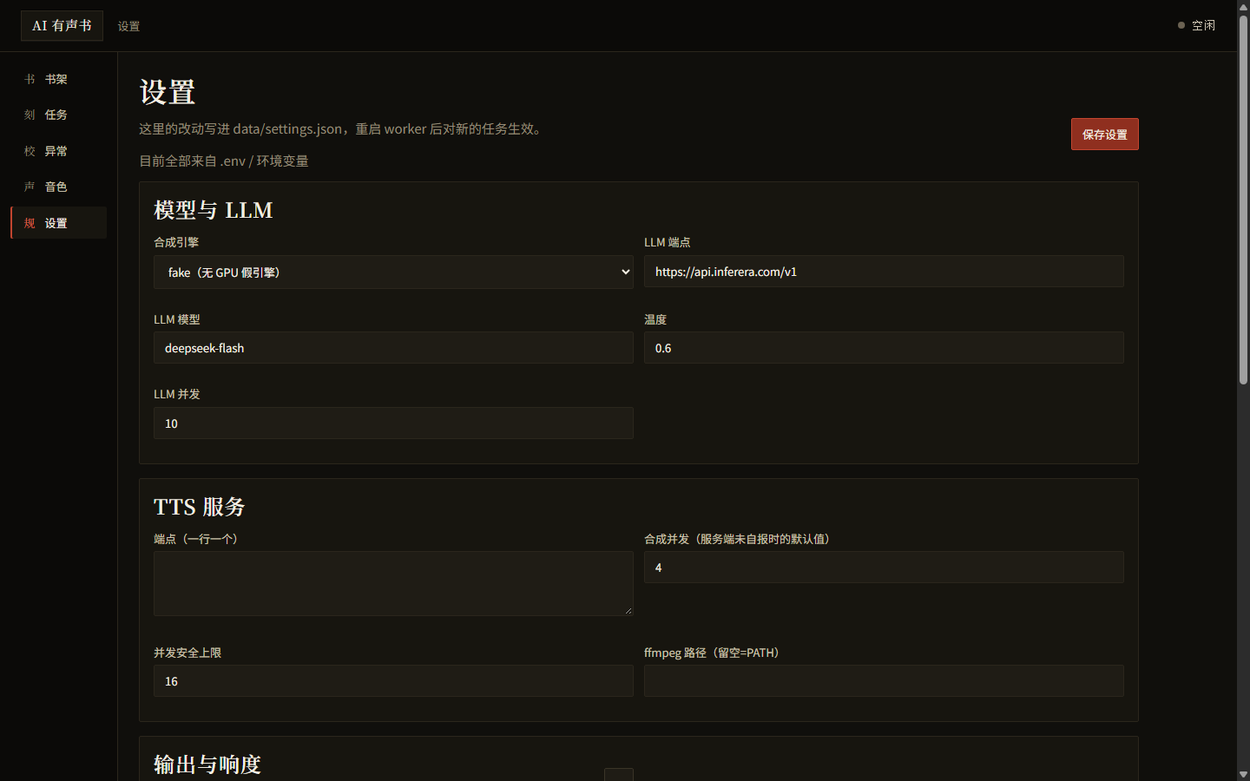
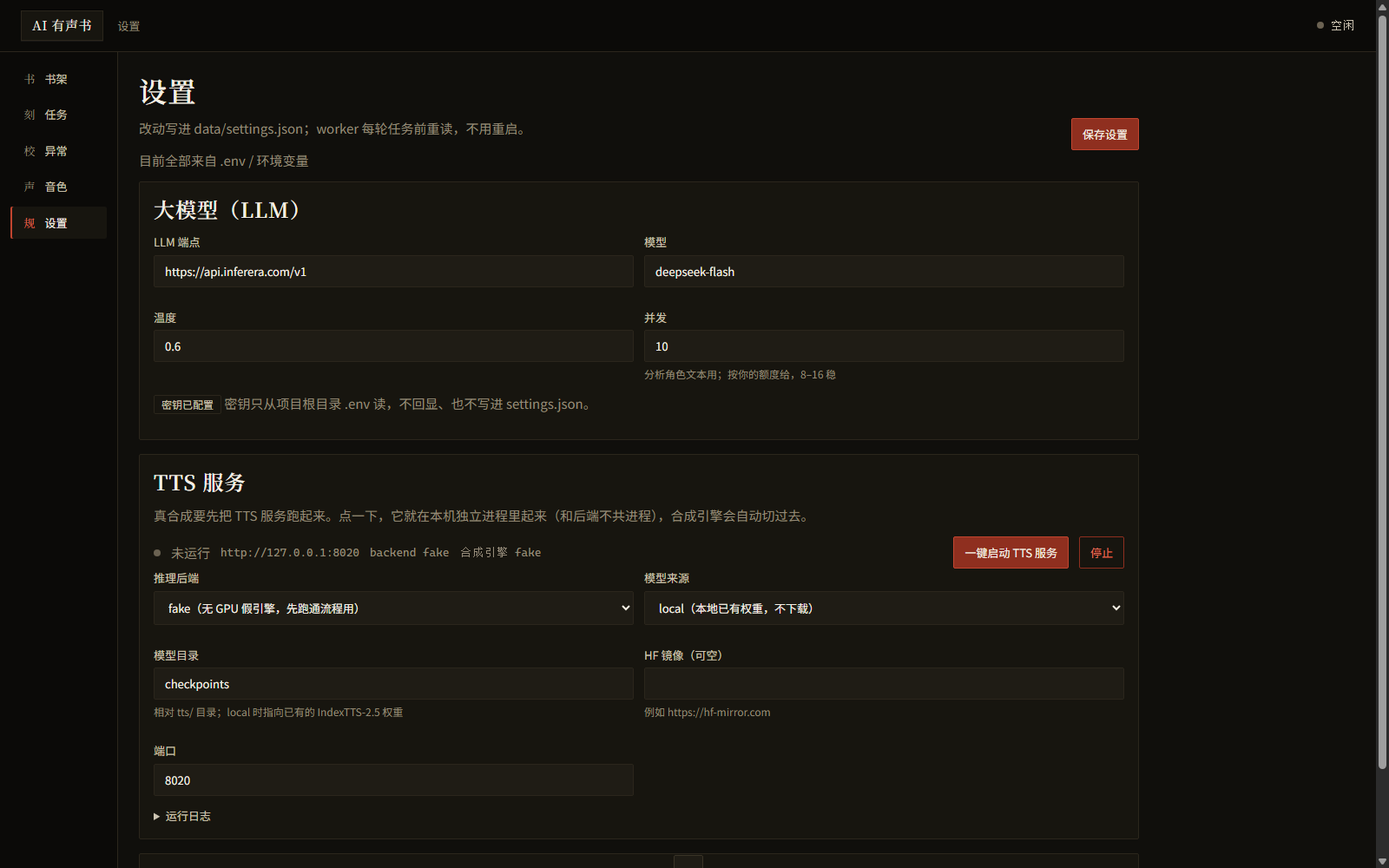
docs: 工作台/一键启动/自带 ffmpeg 的说明与验收记录，重拍界面截图
- ui.md 重写：三栏工作台、悬浮音色窗、一键启动 TTS、快捷键、接口清单、实测记录与已知限制。
- tts-deploy.md 增加「一键启动」（界面按钮 / aiab tts 命令）与免重启说明。
- export.md 说明 ffmpeg 项目自带、ffprobe 可选。
- 新增 M7 计划与验收记录；删掉旧书页/章页截图，换上 workbench-desktop/mobile、voice-picker、
  settings-desktop、settings-tts-running。

diff --git a/docs/ui.md b/docs/ui.md
@@ -1,32 +1,61 @@
-# 浏览器界面（M4）
+# 浏览器界面
 
-本地单用户界面：`uv run aiab serve` 之后打开 `http://127.0.0.1:8300`。手机连同一个地址即可（`--host 0.0.0.0` 时可用局域网 IP）。
+本地单用户界面：`uv run aiab serve` 之后打开 `http://127.0.0.1:8300`。
+手机连同一个地址即可（`--host 0.0.0.0` 时用局域网 IP）。
+
+**书页就是一个工作台**：左边章节、中间正文（原文 / 角色文本一键切换）、右边本章角色与音色。
+进去之后不用再跳到别的页面，看分析、换音色、发起生成都在这一屏里完成。
 
 ## 1. 页面结构
 
-主线三层 **书架 → 书 → 章（场景 + 句子）**，加四个辅助页：
-
 | 路由 | 页面 | 做什么 |
 |---|---|---|
-| `#/shelf` | 书架 | 导入 txt、看每本书的进度（已分析/已生成/时长/异常）、一键分析或生成 |
-| `#/book/{id}` | 书 | 章节表（字数/场景/句子/时长/状态）、导出成品、异常入口 |
-| `#/book/{id}/chapter/{n}` | 章 · 校对台 | 场景栏与场景概览、逐句试听/编辑/单句重生成 |
+| `#/shelf` | 书架 | 导入 txt、看每本书进度（已分析/已生成/时长/异常）、一键分析或生成 |
+| `#/book/{id}` | 书 · 工作台 | 三栏工作台：章节目录 + 正文/角色文本 + 角色音色 |
+| `#/book/{id}/chapter/{n}` | 书 · 工作台（定位到第 n 章） | 同一个工作台，只是把选中的章节换成 n |
 | `#/jobs` | 任务中心 | 运行中（进度条）/排队/失败，可取消与重试 |
 | `#/book/{id}/issues` | 异常清单 | 降级与失败记录，按类型筛选、批量重试 |
-| `#/voices` | 音色库 | 音色试听 + 角色→音色矩阵 |
-| `#/settings` | 设置 | 模型 / TTS / 响度 / 停顿，写进 `data/settings.json` |
+| `#/voices` | 音色库 | 96 个内置音色试听 + 角色→音色矩阵 |
+| `#/settings` | 设置 | LLM + **一键启动 TTS 服务**；其余参数用固定默认值 |
 
-默认路径只有三个动作：**导入 → 一键分析 → 一键生成**，中途没有强制确认；所有人工操作都是事后修正。
+默认路径只有三个动作：**导入 → 分析角色文本 → 生成有声书**，中途没有强制确认；所有人工操作都是事后修正。
 
-## 2. 快捷键（校对台）
+### 工作台三栏
+
+| 区域 | 内容 |
+|---|---|
+| 顶栏 | 书名 + 四个动作：分析角色文本 / 生成有声书 / 导出成品 / 重渲染本章 / 异常；右侧是跟这本书相关的任务进度（走 SSE） |
+| 左栏 | 全部章节（序号、标题、句数、时长、状态点）。点一下即切换，不整页刷新（地址栏同步 `#/book/{id}/chapter/{n}`，刷新页面还停在原章） |
+| 中栏 | 页签「角色文本 / 原文」。角色文本按**场景分段**，每句一行：行号、钤印、说话人（→ 受话人）、情绪/停顿/时长标签、台词、`▶ 试听 / 编辑 / 重生成`；原文页签直接显示这一章的干净文本 |
+| 右栏 | 页签「本章角色 / 全书角色」。每行是 角色名 + 当前音色 + 出现范围（本章句数 / 全书句数与章节数）+「换音色」 |
+
+「换音色」弹出**音色悬浮窗**：搜索框 + 性别 / 年龄 / 用途三行分类筹码 + 96 个音色卡片（标签、描述、试听、点选）。
+选完立刻写进这本书的选角文件，并提示哪些章节的成品因此失效。
+
+### 设置页
+
+只留两块，其余都藏起来：
+
+1. **大模型（LLM）**：端点、模型、温度、并发 + 密钥状态（密钥只从 `.env` 读，不回显）。
+2. **TTS 服务**：一个「一键启动 TTS 服务」按钮 + 停止 + 状态点（未运行 / 启动中 / 运行中）+ 推理后端（fake / indextts）、
+   模型来源（local / modelscope / huggingface）、模型目录、端口，外加可展开的实时日志。
+
+点启动会：拉起独立进程（`tts/` 子项目，与后端不共进程）→ 自动把合成引擎切到 `http://127.0.0.1:<port>` → 写入 `data/settings.json`。
+**worker 每轮任务前重读设置**，所以改并发、改端点、换引擎、刚启动 TTS，都不用重启 worker。
+
+`ffmpeg` 由项目自带（`uv sync` 时装好），响度归一与停顿、导出格式都已按有声书场景固定成默认值——
+这些参数不再出现在界面上；确实要改的话改 `.env`（见 [export.md](export.md)）。
+
+## 2. 快捷键（中栏句子区）
+
+先点一下句子区域（或任意一句）让它获得焦点：
 
 | 键 | 作用 |
 |---|---|
-| `J` / `K` | 下一句 / 上一句（当前句有朱砂引线高亮） |
-| `空格` | 播放当前句 |
+| `J` / `K` | 下一句 / 上一句（当前句有朱砂底色与行号高亮） |
+| `空格` | 试听当前句 |
 | `Enter` | 编辑当前句 |
 | `Esc` | 退出编辑 |
-| `Tab` | 焦点环可见（`:focus-visible`） |
 
 ## 3. 设计系统
 
@@ -42,7 +71,7 @@
 | 数字字体 | `Cascadia Mono`（回退 JetBrains Mono / Consolas） |
 | 圆角 | 2–3px（铅字感，不用大圆角） |
 
-**记忆点**：句子行左侧的**钤印 + 校样引线** —— 说话人是一个朱砂描边小方印（旁白用纸白弱化版），当前句有一条 1px 朱砂引线指向文本，像校样上的批注。
+**记忆点**：句子行左侧的**钤印 + 行号**，以及右栏角色行与悬浮音色窗里同一套钤印。
 
 没有紫蓝渐变、玻璃拟态、超大圆角卡片墙；颜色/间距/字阶/阴影全部来自 `theme.css` 的 CSS 变量，视图样式里不写死颜色。
 
@@ -53,10 +82,13 @@
 ```
 GET    /api/books                              书架（含 stats）
 POST   /api/books                              上传 txt（multipart）
-POST   /api/books/{id}/run                     按断点补排队列
+POST   /api/books/{id}/run                     按断点补跑（分析 + 合成都排）
+POST   /api/books/{id}/analyze                 只推分析链（分章→角色→场景→逐句→选角）
+POST   /api/books/{id}/generate                只推合成链（合成→渲染→合本）
 GET    /api/books/{id}/chapters                章节状态表
+GET    /api/books/{id}/chapters/{n}/text       这一章原文与字数
 GET    /api/books/{id}/chapters/{n}/scenes     场景 + 参与者 + 时长
-GET    /api/books/{id}/chapters/{n}/lines      句子（含 emotion/pause/audio_url）
+GET    /api/books/{id}/chapters/{n}/lines      句子（含 seq 兜底、emotion/pause/audio_url）
 GET    /api/books/{id}/lines/{lineId}/audio    逐句试听（wav）
 PATCH  /api/books/{id}/lines/{lineId}          改台词/说话人/情绪/停顿
 POST   /api/books/{id}/lines/{lineId}/resynth  只重生成这一句
@@ -65,9 +97,14 @@ POST   /api/books/{id}/export                  导出整本
 GET    /api/books/{id}/issues                  异常清单
 POST   /api/books/{id}/issues/retry            批量重试
 GET    /api/jobs · POST /api/jobs/{id}/cancel · POST /api/jobs/{id}/retry
-GET    /api/voices · GET /api/voices/{id}/sample
-GET    /api/books/{id}/casting · PUT /api/books/{id}/casting/{roleId}
+GET    /api/voices                             音色（含分类标签、用途、描述、样本地址）
+GET    /api/voices/{id}/sample
+GET    /api/books/{id}/casting                 选角（含每个角色的章节数与句数）
+PUT    /api/books/{id}/casting/{roleId}        换音色（角色分析里有、选角落下的也能补）
 GET    /api/settings · PUT /api/settings       （密钥永不回显）
+GET    /api/tts/local                          本机 TTS 状态 + 启动参数
+POST   /api/tts/local/start · /stop            一键启动 / 停止
+GET    /api/tts/local/logs?offset=N            增量拉日志
 GET    /api/events                              SSE：任务快照
 ```
 
@@ -76,9 +113,10 @@ GET    /api/events                              SSE：任务快照
 ## 5. 人工修改后发生了什么
 
 1. 改一句 → `lines/chapter_XXXX.jsonl` 更新（`emotion.source=manual`、记录 `edited_at`），该章 `render.json` 与容器被删除；
-2. 点「重生成这句」→ 入队 `synthesize_line`（只重算这一行，其余行的音频不动）→ 完成后自动入队该章 `post`；
+2. 点「重生成」→ 入队 `synthesize_line`（只重算这一行，其余行的音频不动）→ 完成后自动入队该章 `post`；
 3. `post` 重渲染该章（停顿/响度按当前设置重算），并**作废整本 `book.wav/srt/mkv`**；
 4. 再点「导出成品」或 `aiab run` → 自动入队 `book_export` 重建整本。
+5. 换一个角色的音色 → 该角色出现过的所有章节都被作废，右栏与章节列表的状态点会提示，重渲染后生效。
 
 ## 6. 界面冒烟测试（可重复执行）
 
@@ -88,50 +126,51 @@ GET    /api/events                              SSE：任务快照
 $env:AB_UI_SMOKE="1"; uv run pytest tests/test_ui_smoke.py -v
 ```
 
-它会在临时端口真起 `serve`，用 headless Chrome 校验：书架渲染出书、章页渲染出句子与钤印、设置页四组表单齐全、390×844 下底部标签栏固定在底部（不是铺满屏幕），且 `consoleErrors` 为空。
+它在临时端口真起 `serve`，用 headless Chrome 校验：书架渲染出书、工作台渲染出章节列表/句子/角色栏、切到原文页签后句子归零而原文段落出现、
+点「换音色」能弹出音色窗并列出音色、设置页有一键启动且不再有响度/ffmpeg 路径字段、390×844 下底部标签栏固定在底部，且 `consoleErrors` 为空。
 
 **手工探针**（要逐页截图或做交互时用）：
-
-`tools/ui_probe.mjs` 用 Chrome DevTools Protocol 打开页面、等 JS 渲染完、输出关键结构与 console 错误并截图（Chrome 与 Node ≥ 22 是前提，本机已具备）：
 
 ```powershell
 uv run aiab serve --port 8300           # 另开一个窗口
 node tools/ui_probe.mjs "http://127.0.0.1:8300/#/shelf" "$env:TEMP\ui\shelf" 1440 900 --viewport
-node tools/ui_probe.mjs "http://127.0.0.1:8300/#/book/<bookId>/chapter/1" "$env:TEMP\ui\chap" 390 844 --viewport --scroll-to=.proof
+node tools/ui_probe.mjs "http://127.0.0.1:8300/#/book/<bookId>/chapter/1" "$env:TEMP\ui\wb" 390 844 --viewport
+node tools/ui_probe.mjs "http://127.0.0.1:8300/#/book/<bookId>" "$env:TEMP\ui\picker" 1600 1000 --viewport --click=".cast-row .btn"
 ```
 
-常用开关：`--viewport`（只截视口）、`--scroll-to=<选择器>`、`--click=<选择器>`（可重复）、`--steps=<json 文件>`（`click`/`eval`/`wait` 序列）、`--eval=<js>`（把求值结果附在输出里）。输出的 `consoleErrors` 为空才算通过。
+常用开关：`--viewport`（只截视口）、`--wait=<ms>`（等渲染的时长）、`--scroll-to=<选择器>`、`--click=<选择器>`（可重复）、
+`--steps=<json 文件>`（`click`/`eval`/`wait` 序列）、`--eval=<js>`（把求值结果附在输出里）。输出的 `consoleErrors` 为空才算通过。
 
 ## 7. 设计自检（2026-09-24 实测）
 
-实测环境：Chrome headless 1440×900（桌面）与 390×844（移动），真实书 `0e6864037ff74d7f9f919939fb11d56a`（9 章 / 822 句 / 33:19）。
+实测环境：Chrome headless 1600×1000 / 1600×1100（桌面）与 390×844（移动），真实书 `2a48641cedee4e7e8bfaeece8012dfbb`
+（9 章 / 818 句 / 整本 1547.72s，96 个内置音色）。
 
-- [x] **移动端与桌面端都可用**：桌面 1440×900 与移动 390×844 各页渲染通过，`consoleErrors: []`。证据：[shelf-desktop.png](ui-shots/shelf-desktop.png)、[shelf-mobile.png](ui-shots/shelf-mobile.png)、[chapter-mobile.png](ui-shots/chapter-mobile.png)
-- [x] **文字不溢出容器**：句子在 390px 宽下换行不截断；章节表在窄屏用 `.table-wrap` 横向滚动。实测移动端修掉一处真问题——底部标签栏曾因 `inset-block-start` 未覆盖而拉到 788px 高并盖住正文。
-- [x] **四态齐全**：`.btn:hover / :active / [disabled] / :focus-visible`、`.scene-chip[aria-pressed]`、`.chip[aria-pressed]`、`.proof-line.is-current` 都在 `theme.css` 中定义并有可见反馈。
+- [x] **一屏完成**：章节列表 9 项 + 章内 106 句 + 本章角色 4 / 全书角色 14 同屏，`consoleErrors: []`。证据：[workbench-desktop.png](ui-shots/workbench-desktop.png)
+- [x] **两种视图**：中栏页签「角色文本 / 原文」切换后句子区归零、原文段落出现。
+- [x] **音色可分类可选**：悬浮窗列出 96 个音色，性别/年龄/用途三行分类 + 搜索 + 试听。证据：[voice-picker.png](ui-shots/voice-picker.png)
+- [x] **一键启动 TTS**：真点按钮 → 进程起来（`pid 56188`）→ 状态点变「运行中」→ 引擎自动切 `http`；再点「停止」后端口 8020 无监听、进程消失。证据：[settings-tts-running.png](ui-shots/settings-tts-running.png)
+- [x] **不再暴露底层旋钮**：设置页没有响度/停顿/ffmpeg 路径字段（冒烟测试用 `[data-key=loudness_mode]` / `[data-key=ffmpeg_path]` 断言为 `null`）。
+- [x] **移动端可用**：390×844 下顶栏动作换行、章节列表可滚动、正文不截断、底部标签栏不盖住正文。证据：[workbench-mobile.png](ui-shots/workbench-mobile.png)
 - [x] **每页三态**：`loadingState() / emptyState() / errorState()` 由 `ui.js` 的 `renderWithState()` 统一注入，所有视图都走这条路径。
-- [x] **没有 AI 套路视觉**：CSS 里除 `:root` 的 token 外没有裸颜色值（`Select-String '#[0-9a-fA-F]{3,6}' src/audiobook/web/*.css` 只在 `:root` 命中），无渐变、无玻璃拟态、无大圆角。
-- [x] **字体合规**：标题 `Noto Serif SC`、正文 `Noto Sans SC`、数字 `Cascadia Mono`，全部本机命中，无外链字体（静态测试断言 CSS 里不含 `http://`、`Inter`、`Roboto`、`Arial`）。
-- [x] **记忆点**：钤印 + 校样引线。证据：[chapter-desktop.png](ui-shots/chapter-desktop.png)
-- [x] **关掉浏览器任务继续**：所有长动作只入队；实测在浏览器里改一句并重生成，关掉页面后 `worker` 仍按队列完成了 `synthesize_line` → `post` → `book_export`。
+- [x] **没有 AI 套路视觉**：CSS 里除 `:root` 的 token 外没有裸颜色值，无渐变、无玻璃拟态、无大圆角；字体全部本机命中，无外链（静态测试断言）。
+- [x] **换页不留尾巴**：视图切走时 `runTeardowns()` 清掉定时器（设置页轮询）、共享 `Audio`、悬浮音色窗与 SSE 订阅。
 
-### 实测记录（M4 验收）
+### 实测记录
 
 | 操作（全部在浏览器里点） | 结果 |
 |---|---|
-| 打开书架 | 9 章书显示"已分析 9/9 · 已生成 9/9 · 33:19"，无 console 错误 |
-| 打开章页（第 1 章） | 105 句、7 个场景、113 个钤印，场景栏可过滤 |
-| 点「编辑」改台词 → 保存 | toast「已保存；本章成品已失效」；磁盘上 `lines.jsonl` 更新、`chapter_0001.render.json` 与 `.mkv` 被删除 |
-| 点「重生成这句」 | 入队 `synthesize_line`，toast 提示；`worker` 执行后**只有该行** wav 变化（邻居 mtime 不变），随后自动重渲染该章（275.04s / 105 条字幕 / lufs） |
-| 点「重渲染本章」 | 入队 `post`，跳转任务中心；顶部状态显示「排队 1」；证据：[jobs-live-queued.png](ui-shots/jobs-live-queued.png) |
-| 任务中心 | 运行中/排队/失败三分区，失败 9 条可重试；证据：[jobs-desktop.png](ui-shots/jobs-desktop.png) |
-| 音色库 | 音色为空时有明确空态 + 角色→音色矩阵（当前只有 `default`）；证据：[voices-desktop.png](ui-shots/voices-desktop.png) |
-| 设置页 | 21 个字段分四组，密钥只显示"已配置"，保存写 `data/settings.json`；证据：[settings-desktop.png](ui-shots/settings-desktop.png) |
-| 异常清单 | 无降级记录时给出空态，并单列"失败任务"提示去任务中心 |
+| 打开工作台 | 9 章列出，默认停在上次看的章节；首章 106 句、场景分隔、行号 001–106 连续 |
+| 切章 | 只重取该章数据，地址栏同步 `#/book/{id}/chapter/{n}`；返回新章后行号从 001 重新开始 |
+| 切「原文」 | 显示整章原文（带首行缩进），句子区隐藏 |
+| 点「换音色」 → 挑一个 → 试听 | 悬浮窗弹出、可用性别/年龄/用途筛选；试听走 `/api/voices/{id}/sample` |
+| 保存音色 | 写进 `voices/casting.json`，toast 提示受影响的章节，右栏与左栏状态点同步更新 |
+| 设置页点「一键启动 TTS 服务」 | 起来的是独立进程；`data/settings.json` 出现 `engine=http`、`tts_endpoints`、`tts_backend/model_*`；worker 无需重启 |
+| 设置页点「停止」 | 进程树被清掉，端口释放，状态回到「未运行」 |
+| 任务中心 / 异常清单 / 音色库 | 与 M4 一致，界面未改；证据：[jobs-desktop.png](ui-shots/jobs-desktop.png)、[issues-desktop.png](ui-shots/issues-desktop.png)、[voices-desktop.png](ui-shots/voices-desktop.png) |
 
 ## 8. 已知限制
 
-1. 音色库在 M6 迁移之前是空的，矩阵里只能选 `default`。
-2. 设置页的改动写进 `data/settings.json`，**运行中的 worker 需要重启**才会用新设置跑新任务。
-3. 界面不提供"改语气让 LLM 重新标注"——那属于后续能力；当前是手工改 + 规则重算。
-4. 手机端目前是响应式网页，没有 PWA/离线缓存。
+1. 工作台没有内联的"让 LLM 重新标注这一句"；人工修正走逐句编辑 + 规则重算。
+2. 音色悬浮窗一次拉全量音色（96 个），不做分页——本地单用户够用。
+3. 手机端是响应式网页，没有 PWA/离线缓存。

diff --git a/docs/superpowers/plans/2026-09-24-m7-workbench.md b/docs/superpowers/plans/2026-09-24-m7-workbench.md
@@ -1,0 +1,78 @@
+# AI 有声书 M7 工作台 Implementation Plan
+
+**Goal:** 把"书页"改成单页工作台（左章节 / 中原文·角色文本 / 右本章角色音色），
+把 TTS 变成**一键启动**（ffmpeg 项目自带、响度与停顿不再暴露给用户），
+并让运行中的 worker 能自己重读设置——改并发、换引擎、刚启动 TTS 都不用重启进程。
+
+**Architecture:** 后端加三个能力：`tts_service.LocalTtsService`（托管 `tts/` 子进程 + 探活 + 日志增量读）、
+`pipeline` 按阶段过滤（`analysis` / `audio`）、`render/ffmpeg` 的项目自带解析链与 `ffmpeg -i` 兜底。
+前端把 `views/book.js` + `views/chapter.js` 合成 `views/workspace.js`，新增 `voicepicker.js` 悬浮音色窗，
+`ui.js` 增加视图级 `onTeardown/runTeardowns`。
+
+**Tech Stack:** Python 3.13 + uv（`imageio-ffmpeg` 提供静态 ffmpeg）；原生 ES 模块 + CSS 变量，无构建步骤、无框架、无 CDN。
+
+**Spec:** `docs/superpowers/specs/2026-09-24-ai-audiobook-design.md`（§UI、§TTS 部署、§4.3 导出）
+
+## Global Constraints
+
+- TTS 仍然跑在**独立进程**（`tts/` 子项目），后端只托管，不把推理塞进 serve 进程。
+- 界面**不暴露** ffmpeg 路径、响度、停顿这类专业参数；默认值写在 `config.py`，要改走 `.env`。
+- 所有长任务只入队（`/analyze`、`/generate`、`/export`、`render`、`resynth`），请求里不做重活。
+- 视图切走必须清干净：定时器、SSE 订阅、共享 `Audio`、悬浮窗。
+- 每个 commit 的消息末尾追加一行：`Co-authored-by: Codex <codex@openai.com>`。
+- 命令写成 PowerShell 可直接执行的形式。
+
+## 本计划的范围
+
+| 做 | 不做（归属） |
+|---|---|
+| 单页工作台（章节/正文/角色音色三栏）+ 悬浮音色窗 | 段落级拖拽排序、多角色批量替换 |
+| 一键启动 / 停止 TTS + 实时日志 + 自动切引擎 | 在界面里装 CUDA/驱动、显存监控面板 |
+| ffmpeg 项目自带 + ffprobe 可选兜底 | 打包成单文件 exe |
+| worker 每轮重读设置 | 分布式多 worker 协调 |
+| 修 `null` 行号、文档与冒烟测试 | 视频（M5） |
+
+---
+
+## 任务清单
+
+- [x] T1 配置与依赖：`Settings` 增加 `tts_backend/tts_model_source/tts_model_dir/tts_hf_endpoint/tts_port` 并纳入 `OVERLAY_KEYS`；`uv add imageio-ffmpeg`（走阿里云镜像）。
+- [x] T2 ffmpeg：`find_ffmpeg` 改为 `显式路径 → 项目自带 → PATH`；`find_ffprobe` 允许缺失；`probe_json` 在没有 ffprobe 时解析 `ffmpeg -i`（streams/chapters/format 子集）。
+- [x] T3 `tts_service.py`：`LocalTtsService.{status,start,stop,logs,build_command}` + `data/tts-service.json` 状态文件 + Windows 进程树停止；`aiab tts start|stop|status|logs`。
+- [x] T4 API：`/api/tts/local{,/start,/stop,/logs}`；`/api/books/{id}/analyze|generate`；`/chapters/{n}/text`；选角接口补 `chapters/lines` 并允许补建角色；行号 `seq/scene_index` 兜底。
+- [x] T5 worker：`WorkerContext.refresh()` 每轮重读设置，按 `ENGINE_KEYS/LLM_KEYS` 决定是否重建引擎与 LLM 客户端。
+- [x] T6 前端工作台：`views/workspace.js`（章节列表 + 正文/角色文本 + 角色音色 + 键盘 J/K/空格/Enter/Esc + SSE 进度）、`voicepicker.js`（搜索 + 性别/年龄/用途分类 + 试听）。
+- [x] T7 设置页：只留 LLM 与「一键启动 TTS 服务」（状态点、日志、后端、模型来源/目录/端口），高级区折叠，删掉响度/停顿/ffmpeg 路径。
+- [x] T8 测试与文档：`test_tts_service.py`、`test_api_workspace.py`、pipeline 分相、worker 重载；更新 `test_ui_smoke.py`/`test_api_static.py`/`ui_probe.mjs`；重拍截图；更新 `docs/ui.md`、`docs/tts-deploy.md`、`docs/export.md`。
+
+---
+
+## 验收记录
+
+环境：本机 Windows + PowerShell，Python 3.13，Chrome headless，真实书 `2a48641cedee4e7e8bfaeece8012dfbb`（9 章 / 818 句 / 96 音色）。
+
+| 项 | 结果 |
+|---|---|
+| C1 单元测试 | `uv run pytest` → **318 passed, 4 skipped**（比 M6 基线 298 净增 20 个用例：TTS 服务 7、工作台接口 5、worker 重载 3、ffmpeg 兜底 3、分相 2） |
+| C2 浏览器冒烟 | `$env:AB_UI_SMOKE=1; uv run pytest tests/test_ui_smoke.py` → **4 passed**：书架、工作台（章节列表 9 / 句子 106 / 角色行 4）、原文页签、悬浮音色窗（96 行）、设置页无 `[data-key=loudness_mode]`、390×844 底部标签栏 |
+| C3 一键启动 | 浏览器点「一键启动 TTS 服务」→ 真起独立进程（`pid 56188`，`backend=fake`），状态点「运行中」，`data/settings.json` 出现 `engine=http` / `tts_endpoints` / `tts_backend/model_source/model_dir/port`；点「停止」后 `Get-NetTCPConnection -LocalPort 8020` 为空、进程消失 |
+| C4 项目自带 ffmpeg | `find_ffmpeg()` → `.venv/Lib/site-packages/imageio_ffmpeg/binaries/ffmpeg-win-x86_64-v7.1.exe`（83.6 MB）；`-filters` 有 `loudnorm`、`-muxers` 有 `matroska`/`mp4`；把 ffprobe 屏蔽后 `probe_json` 仍能读出 `streams=[audio,subtitle]`、9 个章节标题与时长 |
+| C5 工作台实测 | 首章 106 句一次渲染完，场景分隔正确，行号 001–106 连续（旧数据没有 `seq` 时由后端按行序兜底，不再出现 `null`）；切章只重取本章数据并把地址栏同步成 `#/book/{id}/chapter/{n}`；`consoleErrors: []` |
+| C6 音色窗 | 96 个音色按 性别/年龄/用途 三行分类 + 搜索；试听走 `/api/voices/{id}/sample`；选中即写 `voices/casting.json` 并提示受影响章节 |
+| C7 worker 免重启 | 单元测试覆盖：端点/引擎变化 → 下一轮任务前换引擎，重建失败保留旧引擎不崩；worker 启动日志不再要求"改完必须重启" |
+| C8 真实音质 | ⛔ 需要 GPU 机器按 `docs/tts-deploy.md` 跑真机（与 M6 相同遗留） |
+
+实跑修掉/发现的问题：
+
+1. **`null` 行号**：老书 `lines.jsonl` 没有 `seq`/`scene_index`，前端 `String(undefined)` 渲染成 `null` → 后端按行序兜底，前端改成"本章第几句"连续编号（`seq` 是场景内序号，直接显示会一段一段重来）。
+2. **`event.currentTarget` 在 `await` 后为 null**：一键启动按钮的 `finally` 想恢复按钮文本时报 `TypeError` → 先 `const button = event.currentTarget` 再 await（工作台的通用按钮同样处理）。
+3. **`replaceChildren(...[cond ? node : null])` 会渲染出字面量 "null"**：设置页状态行先拼数组再 `.filter(Boolean)`。
+4. **语法坑**：`cond ? ...spread : value` 不是合法 JS，工作台角色列表一开始整页白屏 → 改成 `...(cond ? arr : [fallback])`。
+5. **依赖下载卡住**：`uv add` 默认拉 `files.pythonhosted.org` 超时 → 改用阿里云镜像（`UV_DEFAULT_INDEX=https://mirrors.aliyun.com/pypi/simple/`）重新 lock，锁文件 URL 也指向镜像。
+6. **移动端底部被标签栏盖住**：`#main[data-view=book]` 把 padding 归零后丢了底部留白 → 移动端补 `padding-block-end: 5.5rem`。
+
+遗留：
+
+1. 索引页仍是"书架→书页"两步，卡片式书架未做视觉重排（本次只改书页）。
+2. 悬浮音色窗一次拉全量音色，音色库上千时需要分页/虚拟滚动。
+3. 真机音质与显存表现仍要在 GPU 机器上按 `docs/tts-deploy.md` 复测。

diff --git a/docs/tts-deploy.md b/docs/tts-deploy.md
@@ -55,7 +55,28 @@ uv run --project tts aiab-tts download --source local
   否则第一次推理会卡在下载上。
 - 已存在且校验通过的文件不会重复下载（断点续传 + 幂等）。
 
-## 3. 起服务
+## 3. 起服务（一键启动）
+
+日常使用不用敲命令：浏览器界面 **设置 → TTS 服务** 里选好后端与模型来源，点「一键启动 TTS 服务」。
+它会做三件事：
+
+1. 在本机拉起独立进程 `uv run --project tts aiab-tts serve --backend … --port …`（日志写到 `data/logs/tts-service.log`，
+   界面上可展开实时看）；
+2. 把合成引擎自动切到 `http` 并指向刚起来的地址（写进 `data/settings.json` 的 `engine` / `tts_endpoints`）；
+3. 运行中的 worker **下一轮任务前会重读设置**，所以不用重启 worker 就能用上新服务。
+
+停止用同一页的「停止」（Windows 下按进程树 `taskkill`，不会留孤儿进程）。
+
+命令行等价物：
+
+```powershell
+uv run aiab tts start --backend indextts --model-source local --wait 120   # --wait 健康检查最长等的秒数
+uv run aiab tts status
+uv run aiab tts logs --lines 40
+uv run aiab tts stop
+```
+
+想手工起、手工接（多实例 / 跨机器）时再走下面两条命令：
 
 ```powershell
 uv run --project tts aiab-tts serve --backend indextts --host 0.0.0.0 --port 8020

diff --git a/docs/export.md b/docs/export.md
@@ -17,7 +17,9 @@
 | `book_章节.txt` | 章节时间点清单（人可读） |
 | `merge-report.txt` | 导出报告（章节明细 + 输出文件清单） |
 
-依赖：本机安装 `ffmpeg` 与 `ffprobe`（在 PATH 上，或用 `AB_FFMPEG_PATH` 指定 ffmpeg 的完整路径，ffprobe 需在同目录）。
+依赖：**不需要你装 ffmpeg** —— `uv sync` 时项目就带上了静态构建（`imageio-ffmpeg` 依赖），
+解析顺序是 `AB_FFMPEG_PATH`（可选覆盖）→ 项目自带 → PATH。`ffprobe` 是可选的：
+没有它时导出校验改用 `ffmpeg -i` 的输出解析，结果一样。
 
 ## 2. 常用命令
 
@@ -76,6 +78,6 @@ LUFS 走 ffmpeg `loudnorm` **两遍**（先测后归，`linear=true`），时长
 
 ## 7. 排错
 
-- `导出失败：找不到 ffmpeg` → 装 ffmpeg 并加入 PATH，或设 `AB_FFMPEG_PATH`（同目录要有 ffprobe）。
+- `找不到 ffmpeg：项目自带的依赖缺失` → 先 `uv sync`；想指定自己的构建再设 `AB_FFMPEG_PATH`。
 - 字幕与音频不同步 → 看 `chapter_XXXX.render.json` 的 `warnings` 与 `issues.jsonl` 里的 `render_duration_mismatch`；同时确认 `audio_missing`（缺片段）的情况。
 - `第 N 章缺少 wav/srt，已跳过` → 该章还没跑完 `post`；先 `uv run aiab run <bookId>` + `uv run aiab worker`。
